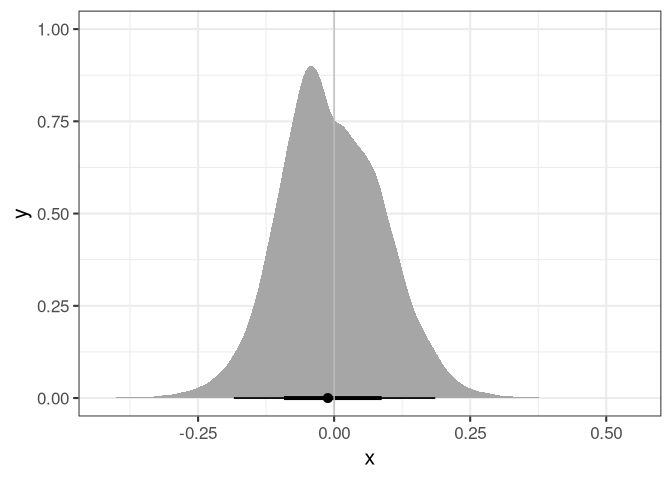
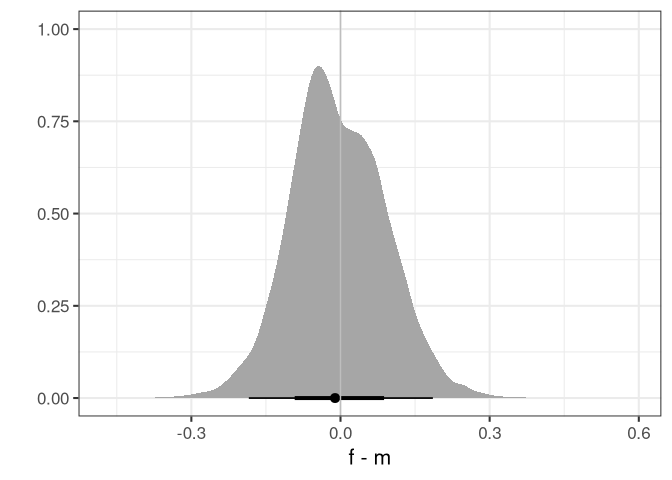
render q03

diff --git a/homework/05-homework.md b/homework/05-homework.md
@@ -38,15 +38,6 @@ Alec L. Robitaille
 
 ![](../graphics/homework/model_h05_q02-3.png)<!-- -->![](../graphics/homework/model_h05_q02-4.png)<!-- -->![](../graphics/homework/model_h05_q02-5.png)<!-- -->
 
-    ## $x
-    ## [1] "f - m"
-    ## 
-    ## $y
-    ## [1] ""
-    ## 
-    ## attr(,"class")
-    ## [1] "labels"
-
 ## Question 3
 
 > Considering the total effect (problem 1) and direct effect (problem 2)
@@ -55,6 +46,12 @@ Alec L. Robitaille
 > whether or not there is evidence of discrimination. Simply explain how
 > the direct effects you have estimated make sense (or not) of the total
 > effect.
+
+Above the horizontal line indicate higher proportion of men were
+accepted, below the line indicates the reverse. The color of the point
+indicates the discipline specific, proportion of female applications.
+
+![](../graphics/homework/h05_q03-1.png)<!-- -->
 
 <!-- 
 ## Question 4
